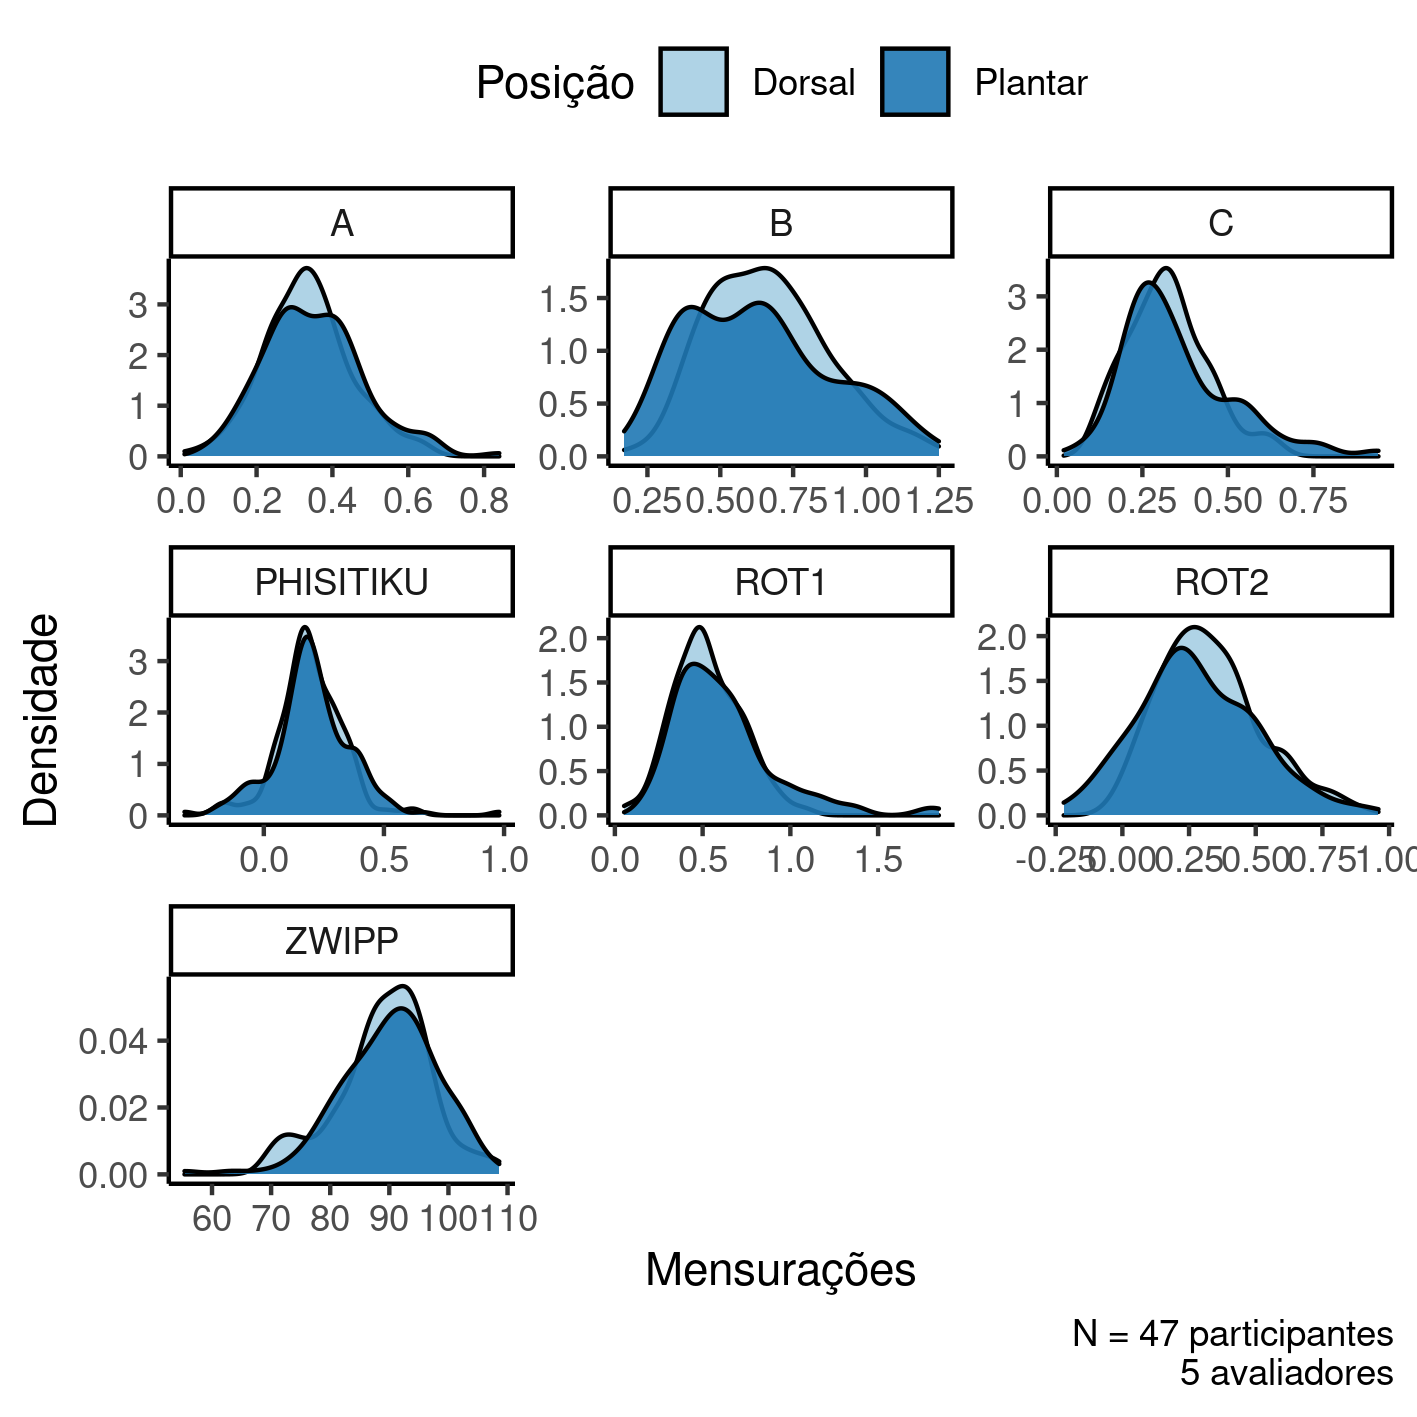
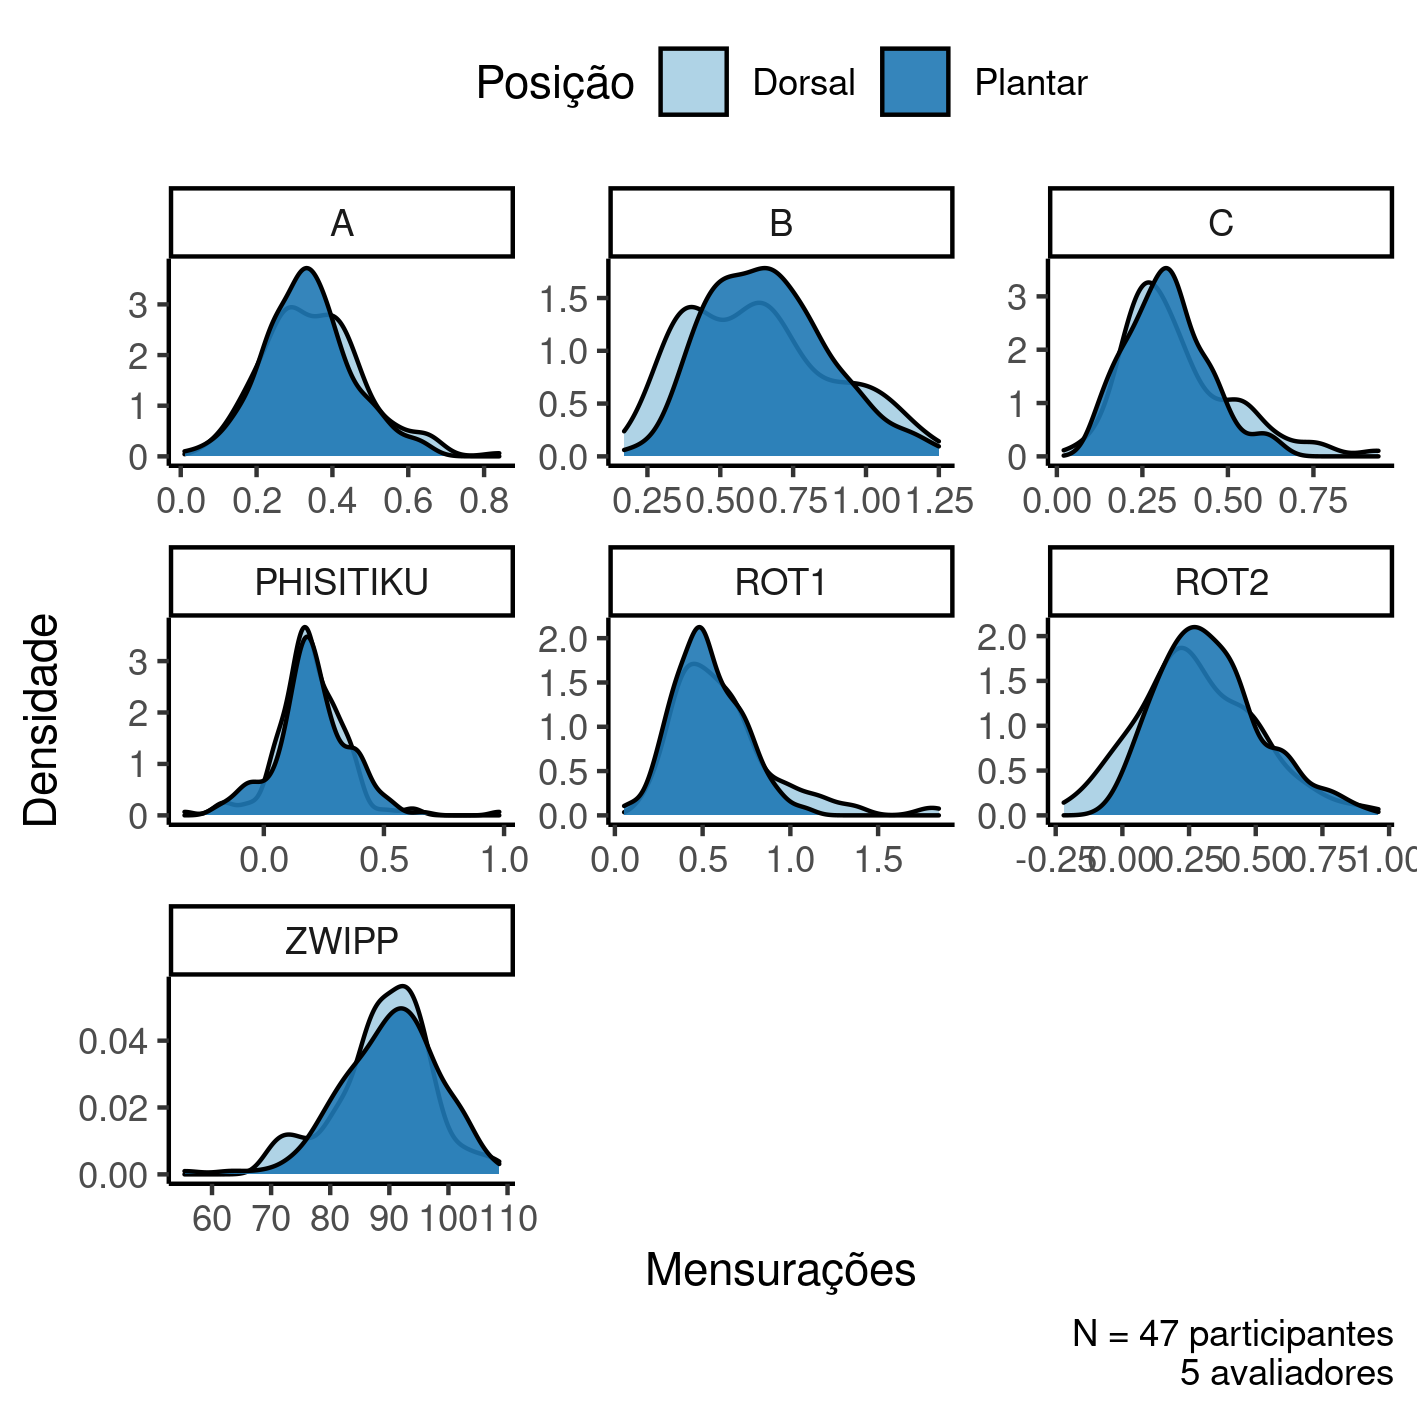
tabelas atualizadas (troca pre/pos)

diff --git a/report/SAR-2022-012-IC-v01.md b/report/SAR-2022-012-IC-v01.md
@@ -132,7 +132,7 @@ Todas as análises foram realizadas ao nível de significância de 5%.
 Todos os testes de hipóteses e intervalos de confiança calculados foram
 bicaudais.
 
-Esta análise foi realizada utilizando-se o software `R` versão 4.1.3.
+Esta análise foi realizada utilizando-se o software `R` versão 4.2.0.
 
 # Resultados
 
@@ -145,22 +145,22 @@ A partir das distâncias A e B as métricas Rotação 1 e Rotação 2 foram calc
 
 Table: **Tabela 1** Mensurações do estudo (N = 47 participantes, 5 avaliadores).
 
-|          **Mensurações**           | **Dorsal**, N = 174 | **Plantar**, N = 174 |
-|:----------------------------------:|:-------------------:|:--------------------:|
-| Distância A, Média (Desvio Padrão) |     0.33 (0.12)     |     0.35 (0.13)      |
-|            Desconhecido            |         11          |          10          |
-| Distância B, Média (Desvio Padrão) |     0.66 (0.21)     |     0.63 (0.25)      |
-|            Desconhecido            |         11          |          10          |
-| Distância C, Média (Desvio Padrão) |     0.32 (0.12)     |     0.35 (0.16)      |
-|            Desconhecido            |         11          |          10          |
-|  Rotação 1, Média (Desvio Padrão)  |     0.53 (0.19)     |     0.62 (0.30)      |
-|            Desconhecido            |         11          |          10          |
-|  Rotação 2, Média (Desvio Padrão)  |     0.33 (0.19)     |     0.28 (0.22)      |
-|            Desconhecido            |         11          |          10          |
-|  Phisitiku, Média (Desvio Padrão)  |     0.20 (0.15)     |     0.20 (0.15)      |
-|            Desconhecido            |         11          |          10          |
-|    Zwipp, Média (Desvio Padrão)    |       89 (8)        |        90 (8)        |
-|            Desconhecido            |         11          |          10          |
+|            **Mensurações**             | **Dorsal**, N = 174 | **Plantar**, N = 174 |
+|:--------------------------------------:|:-------------------:|:--------------------:|
+| __Distância A, Média (Desvio Padrão)__ |     0.35 (0.13)     |     0.33 (0.12)      |
+|              Desconhecido              |         10          |          11          |
+| __Distância B, Média (Desvio Padrão)__ |     0.63 (0.25)     |     0.66 (0.21)      |
+|              Desconhecido              |         10          |          11          |
+| __Distância C, Média (Desvio Padrão)__ |     0.35 (0.16)     |     0.32 (0.12)      |
+|              Desconhecido              |         10          |          11          |
+|  __Rotação 1, Média (Desvio Padrão)__  |     0.62 (0.30)     |     0.53 (0.19)      |
+|              Desconhecido              |         10          |          11          |
+|  __Rotação 2, Média (Desvio Padrão)__  |     0.28 (0.22)     |     0.33 (0.19)      |
+|              Desconhecido              |         10          |          11          |
+|  __Phisitiku, Média (Desvio Padrão)__  |     0.20 (0.15)     |     0.20 (0.15)      |
+|              Desconhecido              |         11          |          10          |
+|    __Zwipp, Média (Desvio Padrão)__    |       89 (8)        |        90 (8)        |
+|              Desconhecido              |         11          |          10          |
 
 As distribuições das mensurações mostram razoável consistência nas mensurações brutas, com boa parte dos parâmetros apresentando distribuições unimodais razoavelmente simétricas tanto na posição dorsal como plantar.
 Uma possível exceção é a Distância B, mas esta aparente bimodalidade da distribuição parece não se refletir em complexidade na distribuição dos parâmetros calculados a partir dela: as rotações externas ROT1 e ROT2 (figura 1) não apresentam características particularmente complexas em suas distribuições.
@@ -179,34 +179,34 @@ Table: **Tabela 2** Mensurações de cada avaliador.
 
 |**Mensurações**                              | **Avaliador 1**, N = 36 | **Avaliador 2**, N = 34 | **Avaliador 3**, N = 32 | **Avaliador 4**, N = 36 | **Avaliador 5**, N = 36 |
 |:--------------------------------------------|:-----------------------:|:-----------------------:|:-----------------------:|:-----------------------:|:-----------------------:|
-|Distância A (plantar), Média (Desvio Padrão) |       0.42 (0.11)       |       0.35 (0.14)       |       0.35 (0.12)       |       0.38 (0.13)       |       0.26 (0.10)       |
+|Distância A (dorsal), Média (Desvio Padrão)  |       0.42 (0.11)       |       0.35 (0.14)       |       0.35 (0.12)       |       0.38 (0.13)       |       0.26 (0.10)       |
 |Desconhecido                                 |            7            |            0            |            2            |            0            |            1            |
-|Distância A (dorsal), Média (Desvio Padrão)  |       0.41 (0.10)       |       0.33 (0.11)       |       0.31 (0.10)       |       0.36 (0.13)       |       0.28 (0.10)       |
+|Distância A (plantar), Média (Desvio Padrão) |       0.41 (0.10)       |       0.33 (0.11)       |       0.31 (0.10)       |       0.36 (0.13)       |       0.28 (0.10)       |
 |Desconhecido                                 |            8            |            0            |            2            |            0            |            1            |
-|Distância B (plantar), Média (Desvio Padrão) |       0.78 (0.18)       |       0.71 (0.23)       |       0.45 (0.22)       |       0.79 (0.22)       |       0.43 (0.11)       |
+|Distância B (dorsal), Média (Desvio Padrão)  |       0.78 (0.18)       |       0.71 (0.23)       |       0.45 (0.22)       |       0.79 (0.22)       |       0.43 (0.11)       |
 |Desconhecido                                 |            7            |            0            |            2            |            0            |            1            |
-|Distância B (dorsal), Média (Desvio Padrão)  |       0.78 (0.20)       |       0.72 (0.17)       |       0.64 (0.16)       |       0.75 (0.20)       |       0.46 (0.11)       |
+|Distância B (plantar), Média (Desvio Padrão) |       0.78 (0.20)       |       0.72 (0.17)       |       0.64 (0.16)       |       0.75 (0.20)       |       0.46 (0.11)       |
 |Desconhecido                                 |            8            |            0            |            2            |            0            |            1            |
-|Distância C (plantar), Média (Desvio Padrão) |       0.33 (0.12)       |       0.32 (0.14)       |       0.53 (0.20)       |       0.33 (0.12)       |       0.28 (0.10)       |
+|Distância C (dorsal), Média (Desvio Padrão)  |       0.33 (0.12)       |       0.32 (0.14)       |       0.53 (0.20)       |       0.33 (0.12)       |       0.28 (0.10)       |
 |Desconhecido                                 |            7            |            0            |            2            |            0            |            1            |
-|Distância C (dorsal), Média (Desvio Padrão)  |       0.34 (0.13)       |       0.33 (0.12)       |       0.33 (0.12)       |       0.33 (0.12)       |       0.29 (0.09)       |
+|Distância C (plantar), Média (Desvio Padrão) |       0.34 (0.13)       |       0.33 (0.12)       |       0.33 (0.12)       |       0.33 (0.12)       |       0.29 (0.09)       |
 |Desconhecido                                 |            8            |            0            |            2            |            0            |            1            |
-|Rotação 1 (plantar), Média (Desvio Padrão)   |       0.55 (0.14)       |       0.52 (0.23)       |       0.88 (0.41)       |       0.51 (0.20)       |       0.64 (0.29)       |
+|Rotação 1 (dorsal), Média (Desvio Padrão)    |       0.55 (0.14)       |       0.52 (0.23)       |       0.88 (0.41)       |       0.51 (0.20)       |       0.64 (0.29)       |
 |Desconhecido                                 |            7            |            0            |            2            |            0            |            1            |
-|Rotação 1 (dorsal), Média (Desvio Padrão)    |       0.54 (0.13)       |       0.47 (0.17)       |       0.50 (0.20)       |       0.50 (0.21)       |       0.62 (0.22)       |
+|Rotação 1 (plantar), Média (Desvio Padrão)   |       0.54 (0.13)       |       0.47 (0.17)       |       0.50 (0.20)       |       0.50 (0.21)       |       0.62 (0.22)       |
 |Desconhecido                                 |            8            |            0            |            2            |            0            |            1            |
-|Rotação 2 (plantar), Média (Desvio Padrão)   |       0.36 (0.16)       |       0.36 (0.22)       |       0.10 (0.20)       |       0.41 (0.23)       |       0.17 (0.12)       |
+|Rotação 2 (dorsal), Média (Desvio Padrão)    |       0.36 (0.16)       |       0.36 (0.22)       |       0.10 (0.20)       |       0.41 (0.23)       |       0.17 (0.12)       |
 |Desconhecido                                 |            7            |            0            |            2            |            0            |            1            |
-|Rotação 2 (dorsal), Média (Desvio Padrão)    |       0.38 (0.17)       |       0.39 (0.17)       |       0.33 (0.16)       |       0.39 (0.23)       |       0.18 (0.11)       |
+|Rotação 2 (plantar), Média (Desvio Padrão)   |       0.38 (0.17)       |       0.39 (0.17)       |       0.33 (0.16)       |       0.39 (0.23)       |       0.18 (0.11)       |
+|Desconhecido                                 |            8            |            0            |            2            |            0            |            1            |
+|Phisitiku (dorsal), Média (Desvio Padrão)    |       0.19 (0.11)       |       0.15 (0.15)       |       0.32 (0.19)       |       0.21 (0.09)       |       0.12 (0.11)       |
 |Desconhecido                                 |            8            |            0            |            2            |            0            |            1            |
 |Phisitiku (plantar), Média (Desvio Padrão)   |       0.21 (0.15)       |       0.20 (0.15)       |       0.27 (0.15)       |       0.23 (0.10)       |       0.11 (0.15)       |
 |Desconhecido                                 |            7            |            0            |            2            |            0            |            1            |
-|Phisitiku (dorsal), Média (Desvio Padrão)    |       0.19 (0.11)       |       0.15 (0.15)       |       0.32 (0.19)       |       0.21 (0.09)       |       0.12 (0.11)       |
+|Zwipp (dorsal), Média (Desvio Padrão)        |         84 (8)          |         91 (7)          |         91 (8)          |         91 (8)          |         88 (7)          |
 |Desconhecido                                 |            8            |            0            |            2            |            0            |            1            |
 |Zwipp (plantar), Média (Desvio Padrão)       |         85 (11)         |         92 (8)          |         92 (7)          |         91 (7)          |         91 (7)          |
 |Desconhecido                                 |            7            |            0            |            2            |            0            |            1            |
-|Zwipp (dorsal), Média (Desvio Padrão)        |         84 (8)          |         91 (7)          |         91 (8)          |         91 (8)          |         88 (7)          |
-|Desconhecido                                 |            8            |            0            |            2            |            0            |            1            |
 
 As consistências das mensurações dos parâmetros (como proxy da dificuldade em realizar a mensuração) será avaliada na próxima seção.
 
@@ -223,11 +223,11 @@ Table: **Tabela 3** Comparação intra-avaliador dos parâmetros indicativos de 
 
 |**Mensurações**                    | **Dorsal**, N = 163 | **Plantar**, N = 163 | **Diferença** |   **95% IC**   | **Valor p** |
 |:----------------------------------|:-------------------:|:--------------------:|:-------------:|:--------------:|:-----------:|
-|Rotação 1, Média (Desvio Padrão)   |     0.53 (0.19)     |     0.62 (0.30)      |     0.09      |  0.04 to 0.14  |   <0.001    |
-|Rotação 2, Média (Desvio Padrão)   |     0.33 (0.19)     |     0.28 (0.23)      |     -0.05     | -0.08 to -0.02 |    0.004    |
-|Distância C, Média (Desvio Padrão) |     0.32 (0.12)     |     0.35 (0.16)      |     0.03      |  0.01 to 0.05  |    0.011    |
-|Phisitiku, Média (Desvio Padrão)   |     0.20 (0.15)     |     0.20 (0.15)      |     0.01      | -0.01 to 0.02  |    0.597    |
-|Zwipp, Média (Desvio Padrão)       |       89 (8)        |        90 (8)        |      1.0      |  -0.11 to 2.1  |    0.076    |
+|Rotação 1, Média (Desvio Padrão)   |     0.62 (0.30)     |     0.53 (0.19)      |     0.09      |  0.04 to 0.14  |   <0.001    |
+|Rotação 2, Média (Desvio Padrão)   |     0.28 (0.23)     |     0.33 (0.19)      |     -0.05     | -0.08 to -0.02 |    0.004    |
+|Distância C, Média (Desvio Padrão) |     0.35 (0.16)     |     0.32 (0.12)      |     0.03      |  0.01 to 0.05  |    0.011    |
+|Phisitiku, Média (Desvio Padrão)   |     0.20 (0.15)     |     0.20 (0.15)      |     -0.01     | -0.02 to 0.01  |    0.597    |
+|Zwipp, Média (Desvio Padrão)       |       89 (8)        |        90 (8)        |     -1.0      |  -2.1 to 0.11  |    0.076    |
 
 ### Consistência inter-avaliador
 
